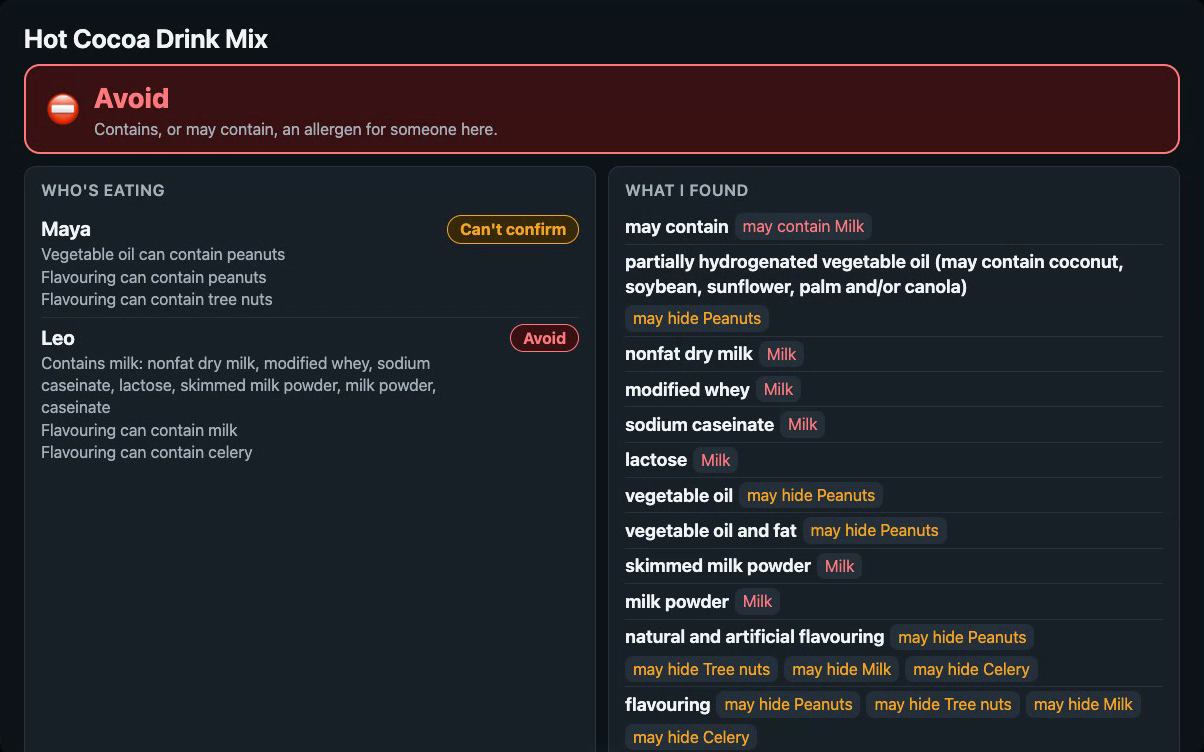
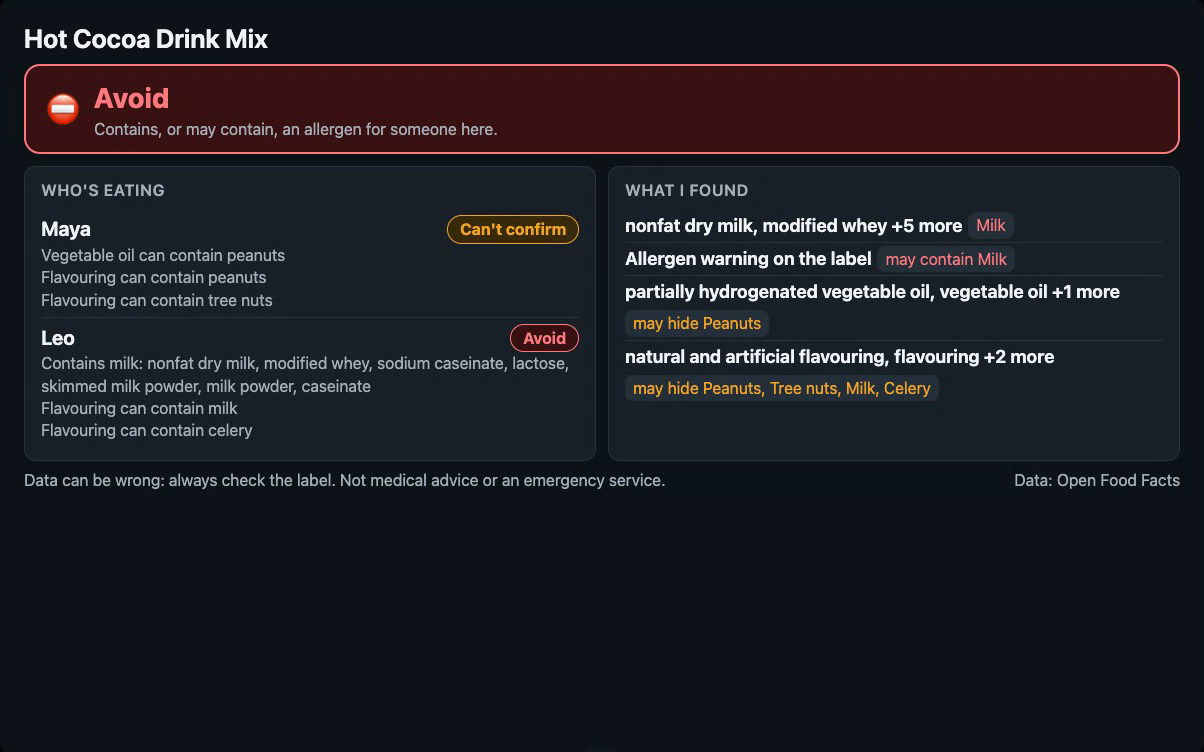
docs: mock-judge fixes, paste-sheet submission, README evidence

diff --git a/docs/SUBMISSION.md b/docs/SUBMISSION.md
@@ -1,87 +1,137 @@
-# Devpost submission draft: Alexa+ track
+# Devpost submission: paste sheet (Alexa+ track)
 
-Edit freely before submitting. Facts below match the repo as built.
+Field by field, in the order of the Devpost form. Facts match the repo as built. `<…>` marks what is still open. Nothing here is submitted, uploaded or published until AUTHOR does it.
 
-## Name
-Allergy Guard: a fail-closed allergy checker for Alexa+
+## Project name
+Allergy Guard
 
-## Tagline
-Tell Alexa who's allergic to what. It checks recipes and products for everyone at the table, and never says "safe".
+## Elevator pitch (200 characters max)
+An Alexa+ add-on that checks recipes and scanned food for everyone at the table, and never says "safe". When the data can't back an answer, it says "I can't confirm".
 
-## What it does
-A household tells Alexa who is allergic to what, guests included, with an end date for visitors. Allergy Guard then checks:
+## Thumbnail
+`docs/video/gallery/thumbnail.png` (3:2).
 
-- **Recipes**: a dish name, or ingredients read out. It shows a verdict per person on the Echo Show screen, highlights the risky ingredients, and suggests swaps. Each swap is checked against everyone's allergies, so a fix for one person never trips another.
-- **Packaged foods**, from Open Food Facts. Scan the barcode on the phone scan page and ask "Can Maya have what I just scanned?", or say the name or the barcode. If a name matches several products, it asks which one instead of guessing. With no recent scan, it asks for one.
+## About the project (paste as the story)
 
-The swaps go onto a shopping list.
+### Inspiration
+Two real records from Open Food Facts, the open database behind many allergy apps. A chocolate hazelnut spread has an empty allergen list and no ingredient list, so a checker that trusts the list would call it allergen-free. A hot cocoa mix lists soy as its only allergen, while its ingredients include nonfat dry milk, whey and caseinate. A voice assistant that answers confidently from data like that is dangerous. One that knows when it doesn't know is useful.
 
-The core rule is fail-closed. When data is missing, ambiguous, not in English, or the lookup fails, the answer is "I can't confirm it's OK, treat it as unsafe". So is any recipe word the engine doesn't recognise ("I don't know what's in garam masala"). Even a clean result ends with "check the label".
+The stakes are high. About 33 million people in the US have at least one food allergy, including 1 in 13 children, and about 40% of children with food allergies have more than one. Every 10 seconds, a reaction sends someone in the US to an emergency room ([FARE](https://www.foodallergy.org/resources/facts-and-statistics)). At home, the real question is whether a dish is OK for everyone at the table tonight.
 
-## Why
-Food allergies are a high-stakes decision made several times a day, often with flour on your hands. About 33 million people in the US have at least one food allergy, including 1 in 13 children, and about 40% of children with food allergies have more than one. Every 10 seconds, a reaction sends someone in the US to an emergency room ([FARE](https://www.foodallergy.org/resources/facts-and-statistics)). At home, the real question is whether a dish is OK for everyone at the table. The open data behind most allergy apps is volunteer-entered. In Open Food Facts, one chocolate hazelnut spread has an empty allergen list and no ingredients, and a hot cocoa mix lists soy as its only allergen while its ingredients include nonfat dry milk, whey and caseinate. A voice assistant that answers confidently from data like that is dangerous. One that knows when it doesn't know is useful.
+Alexa+ already remembers a family's allergies. Amazon says it understands "your family's dietary preferences, allergies, and weekly traditions" ([Amazon](https://aboutamazon.com/news/devices/amazon-2025-devices-alexa-event-live-updates)). But remembering an allergy isn't the same as checking food for it.
 
-Alexa+ already remembers a family's allergies. Amazon says it understands "your family's dietary preferences, allergies, and weekly traditions" ([Amazon](https://aboutamazon.com/news/devices/amazon-2025-devices-alexa-event-live-updates)). But remembering an allergy isn't the same as checking food for it. Allergy Guard checks each person against the actual recipe or product record, and says so when the record can't support an answer.
+### What it does
+Allergy Guard checks recipes and scanned products against everyone at your table, guests included. It treats missing data as unsafe: it says "I can't confirm" instead of "allergen-free".
 
-## How it's built
-- Self-hosted MCP server in TypeScript using the MCP TypeScript SDK 1.32. It negotiates MCP spec **2025-11-25** over **Streamable HTTP** (stateless) and exposes 9 tools.
-- An **MCP Apps** view (`text/html;profile=mcp-app`, MCP Apps 2026-01-26) as the Echo Show screen, with tap-to-choose that calls back into the server via `tools/call`. It follows the Alexa+ MCP design guide:
-  - for a typical household, the verdict, the risky ingredients and the swaps fit one screen;
-  - text is 16px or larger, touch targets 48px, contrast at least 4.5:1 in both themes;
-  - it uses the host's theme, device class and safe-area insets;
-  - it has no links out of the view.
+Say Maya can't have peanuts or tree nuts, and Leo from next door, who can't have dairy or celery, is coming on Saturday. "Check tonight's lasagne" gives each of them a verdict on the Echo Show, names the risky ingredients, and suggests swaps checked against both of them, so a fix for Leo never trips Maya.
 
-  Every tool result carries `_meta.ui.resourceUri`, because Alexa+ reads it from the response, and each tool has `invoking`/`invoked` status lines.
-- An open-source engine, `allergen-guard`, with zero dependencies and an MIT licence. It covers the EU 14 and US Big 9 allergens, with wheat separate from gluten, plus an ingredient dictionary with exclusions (peanut butter isn't dairy; oyster mushrooms aren't shellfish). Product checks read allergen tags, traces, the English ingredient text and the ingredient taxonomy together.
-- A simulated Alexa+ experience: any OpenAI-compatible LLM drives the server through a real MCP client. The browser does voice in and out and acts as the MCP Apps host. A **verdict lock** makes the spoken answer after a check the tool's own sentence, so the model can't soften it. A **no-tool guard** stops the model answering allergy questions from memory: without a tool call it may ask, never assert. Tested end to end on a local Qwen3.5 9B model.
-- A phone scan page: the camera reads the barcode (the browser's BarcodeDetector, or a WebAssembly decoder for Safari, served by the server itself, never a CDN), and the server keeps the scan for 30 minutes as "what I just scanned".
-- 58 automated tests:
+- **Household and guests:** who is allergic to what, with an end date for visitors. Guests drop off the list after their visit.
+- **Recipes:** a dish name, looked up on TheMealDB, or ingredients read out. You get a verdict per person, the risky lines, and household-aware swaps that go onto a shopping list.
+- **Packaged food:** scan the barcode on your phone and ask "Can Maya have what I just scanned?", or say the name or the barcode. If several products match, it asks which one. It reads the Open Food Facts allergen tags, traces and ingredient text together, which is how it finds the cocoa mix's milk.
+- **Fail-closed:** there are three answers: "Avoid", "Can't confirm" and "None listed, check the label". Never "safe". Missing, ambiguous or non-English data gives "Can't confirm". So does a recipe word it doesn't recognise ("I don't know what's in garam masala") and a failed lookup.
+
+### How I built it
+- **Self-hosted MCP server** in TypeScript with the MCP TypeScript SDK 1.32. It uses MCP spec **2025-11-25** over **Streamable HTTP**, is stateless, and has 9 tools. Every result leads with a `VERDICT:` line and the exact sentence to say, plus `structuredContent` for the screen.
+- **MCP Apps screen** for the Echo Show (`text/html;profile=mcp-app`), built to the Alexa+ MCP design guide:
+  - each verdict fits one screen at Echo Show 8 size;
+  - text is 16px or larger, touch targets 48px, contrast at least 4.5:1;
+  - it uses the host's theme and safe-area insets.
+
+  Tapping a choice calls back into the server with `tools/call`. `_meta.ui.resourceUri` is on every tool definition and every result.
+- **Open-source engine, `allergen-guard`**, MIT, with zero dependencies. It covers the EU 14 and US Big 9 allergens, with wheat separate from gluten, and has an ingredient dictionary with exclusions (peanut butter isn't dairy; oyster mushrooms aren't shellfish). Swaps declare their own allergens and are never a plant relative of what they replace.
+- **Phone scan page:** the camera reads the barcode with the browser's BarcodeDetector, or a WebAssembly decoder for Safari that the server serves itself. The server keeps the scan for 30 minutes as "what I just scanned".
+- **Simulated Alexa+**, because the Alexa+ MCP Toolkit is US-only and I'm outside the US. An LLM drives the server through a real MCP client, and the browser handles voice and hosts the MCP Apps screen. The simulator has two guards:
+  - a **verdict lock**: after a check, the spoken answer is the tool's own sentence;
+  - a **no-tool guard**: without a tool call, the model may ask but never assert.
+
+  On a real Alexa+, add-ons can't script speech, so the server's `VERDICT:` line and exact sentence carry the same rule.
+- **60 automated tests**, including:
   - 54 ingredient–allergen pairs that must never pass (peanut butter, pesto, ghee, amaretto…);
   - look-alikes that must not be flagged;
-  - end-to-end MCP over HTTP;
-  - a test where a fake model tries to say "totally safe" and is overridden;
-  - a test where a fake model answers from memory without a tool and is replaced.
+  - MCP end to end over HTTP;
+  - a fake model that tries to say "totally safe" and is overridden.
 - Built with Claude Code as the coding agent.
 
-## What was and wasn't tested
+### What was and wasn't tested
 - **Tested:**
-  - 58 automated tests;
-  - the scan page in headless Chrome with a camera feed of a barcode, then "what I just scanned" through the real model;
-  - the full demo conversation, end to end in the simulator on a local Qwen3.5 9B model with live data;
-  - the screen in headless Chrome, in both themes.
-- **Not tested:** a real Alexa+ (the Toolkit is US-only) and Amazon's Local Inspector (it installs through the Developer Console).
-- The verdict lock and no-tool guard are simulator-side. On real Alexa+ the defence is the server's `VERDICT:` line and exact speech sentence, plus the tool descriptions, because add-ons can't script what Alexa says. I've asked Amazon for a verbatim hook in the friction log.
+  - the 60 automated tests;
+  - the full demo conversation, end to end in the simulator, on a local Qwen3.5 9B model with live data;
+  - the scan page in headless Chrome, with a camera feed of a real barcode;
+  - every demo screen, measured at Echo Show 8 size in headless Chrome.
+- **Not tested:**
+  - a real Alexa+, because the Toolkit is US-only;
+  - Amazon's Local Inspector, which installs through a Developer Console login. <update if it gets run>
 
-## Video
-<YouTube or Vimeo URL>. The file is `docs/video/allergy-guard-demo.mp4` (2:51). Captions are in `allergy-guard-demo.srt`; upload them with the video.
+### Challenges I ran into
+- **Open data that contradicts itself.** The answer was never to trust allergen tags alone, and to scan the ingredient text too.
+- **Plant-based names that contain dairy words** ("coconut yoghurt"). Swaps declare their own allergens instead of being re-parsed.
+- **Voice answers have to be short without losing the reason.** Every verdict says who, what, and where it came from.
+- **A real model behaves differently from a scripted one.** It said "Got it, I'll add Leo" without saving him, and answered a pesto question from memory; that led to the no-tool guard. It also made up shopping-list swaps until the turn history kept the tool results.
 
-Put this line near the top of the YouTube description (the Higgs licence requires a visible credit):
-> This audio was created with Boson AI's Higgs Audio — https://www.boson.ai/higgs-audio
+### Accomplishments that I'm proud of
+- It never says "safe", and tests enforce that, including one where a fake model tries.
+- One spoken question checks everyone at the table, including a guest who drops off after the visit.
+- It finds the milk in a real cocoa mix whose allergen tags miss it.
+- It follows MCP spec 2025-11-25 exactly over Streamable HTTP, with an MCP Apps screen that fits an Echo Show.
+- The whole demo runs on a local 9B model, with no cloud API.
 
-## Try it (judges)
-`npm install && npm start`, then open http://127.0.0.1:8787/. The demo buttons call the MCP tools directly and need no model or API key. To talk to it, set `LLM_BASE_URL` and `LLM_MODEL` to any OpenAI-compatible endpoint with tool calling (see the README). Any MCP client can connect to `http://127.0.0.1:8787/mcp`.
+### What I learned
+- An allergen list is a claim, not a fact. The ingredient text has to be read too.
+- A model with tools still skips them. The guard has to be in code, not only in the prompt.
+- Swaps need the same care as dishes. An early swap table offered fennel for celery, which is a plant relative and a known cross-reaction. Swaps are now tested against that.
+- On a voice device the screen has to read at a glance. Grouping a product's 13 flagged ingredients into 4 rows mattered more than any colour.
 
-## Built during the hackathon
-All of it: the repository's first commit is 4 October 2026, after the submission period opened on 31 August 2026.
+### What's next for Allergy Guard
+- Deploying through the Alexa+ MCP Toolkit once it's available to my account.
+- Scanning with the Echo Show's own camera, if add-ons get camera input.
+- Ingredient text in more languages: Open Food Facts carries it, and the engine needs dictionaries.
+- An allergist review of the dictionary and the swaps.
 
-## Challenges
-- Open data that contradicts itself. The answer was never to trust allergen tags alone and to scan ingredient text too.
-- Plant-based names that contain dairy words ("coconut yoghurt"). Swaps declare their own allergens explicitly instead of being re-parsed.
-- Voice has to be short, but it can't lose the reason. Every verdict says who, what, and where it came from.
-- A real model, unlike a scripted one, said "Got it, I'll add Leo" without saving him, and answered a pesto question from memory. That led to the no-tool guard. It also made up shopping-list swaps until the turn history kept the tool results.
+## Built with (tags)
+alexa+, model-context-protocol, mcp-apps, typescript, node.js, open-food-facts, themealdb, web-speech-api, barcode-detector, mlx, qwen, claude-code
 
-## What's next
-- Scanning from the Echo Show's own camera, if add-ons get camera input.
-- Ingredient text in more languages: Open Food Facts carries them, and the engine needs dictionaries.
-- Deploying through the Alexa+ MCP Toolkit once available on a supported account.
-- Allergist-reviewed dictionary entries.
+## Try it out (links)
+- Code repository: <GitHub URL, once AUTHOR decides private or public>
 
-## Product feedback (required)
-Per tool: what it was used for, what worked, what needs work, onboarding, and whether I'd build with it again. Each issue has a full entry, with severity, in the friction log (`docs/FRICTION_LOG.md`, five entries).
+## Video demo link
+<YouTube URL, after the upload>. The file is `docs/video/allergy-guard-demo.mp4` (2:54), with captions in `docs/video/allergy-guard-demo.srt`.
+
+## Image gallery (upload in this order)
+Files are in `docs/video/gallery/`, padded to 3:2.
+1. `1-cannot-confirm.png`: "Missing product data: 'Can't confirm', never 'allergen-free'."
+2. `2-lasagne-check.png`: "One question gives a verdict for everyone at the table, with swaps checked against all of them."
+3. `3-product-check.png`: "The allergen tags say soy; the ingredient text adds the milk."
+4. `4-phone-scan.png`: "Scan on your phone, then ask about 'what I just scanned'."
+
+## Additional info (the hackathon's questions)
+
+### Track
+Alexa+
+
+### Mini challenges
+Open Source
+
+### Code repository URL
+<GitHub URL>
+
+### Testing instructions
+Node 22.6 or newer. Run `npm install && npm start`, then open http://127.0.0.1:8787/.
+
+The demo-script buttons call the MCP tools directly and need no model or API key. They reproduce the video's checks:
+- the spread with no ingredient list gives "Can't confirm";
+- the cocoa mix whose tags miss the milk gives "Avoid" for Leo.
+
+To talk to it, set `LLM_BASE_URL` and `LLM_MODEL` to any OpenAI-compatible endpoint with tool calling (see the README). Any MCP client can connect to `http://127.0.0.1:8787/mcp`. `npm test` runs the 60 tests.
+
+### New or existing project
+New: the repository's first commit is 4 October 2026, after the submission period opened on 31 August 2026.
+
+### Product feedback (required)
+For each tool: what it was used for, what worked, what needs work, onboarding, and whether I'd build with it again. Each issue also has a full entry, with severity, in the friction log (`docs/FRICTION_LOG.md`, five entries).
 
 **Alexa+ MCP Toolkit** (docs, MCP design guide, Local Inspector)
 - **Used for:** the screen and voice rules (design guide), where Alexa+ reads `_meta.ui`, and the certification path (Local Inspector).
-- **Worked well:** the design guide is concrete. Its sizes, contrast and density rules reshaped the screen. Add-ons are plain MCP, so the whole server could be built and tested with standard MCP tools before any Alexa-specific step.
+- **Worked well:** the design guide is concrete; its sizes, contrast and density rules reshaped the screen. Add-ons are plain MCP, so the whole server could be built and tested with standard MCP tools before any Alexa-specific step.
 - **Needs work:**
   - The Toolkit is US-only, so from outside the US I built a simulator instead of testing on a real Alexa+ (friction log 1).
   - There's no way to ask Alexa+ to speak a safety verdict verbatim: "You can't script what Alexa says" (2).
@@ -103,30 +153,62 @@ Per tool: what it was used for, what worked, what needs work, onboarding, and wh
 
 **Open Food Facts API and TheMealDB API**
 - **Used for:** product data by barcode or name, and recipes by dish name.
-- **Worked well:** both are free to develop against: Open Food Facts needs no key, and TheMealDB has a free development key.
+- **Worked well:** both are free to develop against. Open Food Facts needs no key, and TheMealDB has a free development key.
 - **Needs work:** Open Food Facts data is volunteer-entered and sometimes contradicts itself. That's why Allergy Guard reads the allergen tags and the ingredient text together, and fails closed.
 
-## Feature requests (optional)
+### Feature requests (optional)
 - **Critical:** let developer accounts in any country use the web simulator for development-stage add-ons. It's the only end-to-end test path, and it was closed to me.
 - **Critical:** a verbatim hint on tool results, such as `speech: { text, verbatim: true }`, for health and safety add-ons. A verdict must never be paraphrased into "should be fine".
 - **Important:** scripted multi-turn conversation tests in the Local Inspector or the `alexa-ai` CLI. The bugs that mattered most only showed up across turns.
-- **Important:** publish the Local Inspector and the `alexa-ai` CLI on public npm under the `@alexa-ai` scope, for CI and so nobody installs an unscoped look-alike.
+- **Important:** publish the Local Inspector and the `alexa-ai` CLI on public npm under the `@alexa-ai` scope, so it can run in CI and nobody installs an unscoped look-alike.
 - **Important:** say which `_meta.ui` fields Alexa+ reads from `tools/list` and which from tool results. A server built only to the MCP Apps spec can pass every local test and still show no screen.
 
-## Open Source mini-challenge
-- **Project:** `allergen-guard`, published as its own repository. <add the URL once it exists>
-- **What:** a zero-dependency TypeScript library for fail-closed allergen checks on recipes and packaged foods. It covers the EU 14 and US Big 9 allergens.
+### Friction log (optional, up to a 10% bonus)
+Paste `docs/FRICTION_LOG.md`: five entries, in the format the rules ask for.
+
+### Open Source mini-challenge
+- **Contribution URL:** <the public `allergen-guard` repository>
+- **Project repository URL:** <the Allergy Guard repository>
+- **GitHub username:** <AUTHOR's>
+- **What:** a zero-dependency TypeScript library for fail-closed allergen checks on recipes and packaged foods, covering the EU 14 and US Big 9 allergens.
 - **How:**
   - an ingredient dictionary with exclusions (peanut butter isn't dairy; oyster mushrooms aren't shellfish);
   - three verdicts, none of which is "safe";
   - product checks that read Open Food Facts allergen tags, traces and ingredient text together;
-  - swaps filtered against everyone's allergies.
-- **Why:** allergy features keep being rebuilt in apps and assistants, and the easy version (trust the allergen tags, answer "safe") is dangerous. This gives anyone a tested, fail-closed core. It has 21 tests of its own, including 54 ingredient–allergen pairs that must never pass.
+  - swaps filtered against everyone's allergies, and never a plant relative of what they replace.
+- **Why it matters:** allergy features keep being rebuilt in apps and assistants, and the easy version (trust the allergen tags, answer "safe") is dangerous. This gives anyone a tested, fail-closed core. It has 23 tests of its own, including 54 ingredient–allergen pairs that must never pass.
 
-## Built with
-Alexa+ (simulated), Model Context Protocol (MCP), MCP TypeScript SDK, MCP Apps, TypeScript, Node.js, Open Food Facts API, TheMealDB API, Web Speech API, barcode-detector (WebAssembly fallback), Qwen3.5 9B via MLX (local model for the simulator), Claude Code
+## YouTube upload (not part of the Devpost form)
+- **File:** `docs/video/allergy-guard-demo.mp4` (2:54), with captions in `docs/video/allergy-guard-demo.srt` (English).
+- **Title:** Allergy Guard: an Alexa+ add-on that never says "safe" (hackathon demo)
+- **Visibility:** Public. The rules say "publicly visible", and Unlisted may not count. This is AUTHOR's call.
+- **Altered or synthetic content:** yes. The voices are AI-generated and realistic.
+- **Made for kids:** no. **Category:** Science & Technology.
+- **Description** (the first line is the credit the Higgs licence requires):
 
-## Repository access (a note for submitting, not part of the text)
+```
+This audio was created with Boson AI's Higgs Audio — https://www.boson.ai/higgs-audio
+
+Allergy Guard is an Alexa+ add-on, shown in a simulator, that checks recipes and scanned food for everyone at the table, and never says "safe". When the data can't back an answer, it says "I can't confirm".
+
+Built for Amazon's Build, Ship, Shape hackathon (Alexa+ track): a self-hosted MCP server (spec 2025-11-25, Streamable HTTP), an MCP Apps screen for the Echo Show, and an open-source allergen engine. The voices are synthetic. Product data: Open Food Facts (ODbL). Recipes: TheMealDB.
+
+Code: <repository URL>
+
+0:00 The problem: a record with an empty allergen list
+0:12 One rule: it never says "safe"
+0:27 Saving the household and a guest
+0:46 Checking tonight's lasagne for everyone
+1:23 Scan on a phone: missing data means "can't confirm"
+1:54 A cocoa mix whose tags miss the milk
+2:23 Keeping the model honest
+2:37 How it's built
+```
+
+## Repository access (not part of the Devpost form)
 Pick one:
-- **Public:** add an open-source LICENSE file at the repository root. GitHub then shows the licence in the About section, which the rules ask for. No other step.
+- **Public:** the root `LICENSE` (MIT) is in place, so GitHub shows the licence in the About section, which the rules ask for. No other step.
 - **Private:** on submission day, add these collaborators: `chris-trag`, `knmeiss`, `giolaq`, `anishamalde`, `mosesroth`, `emersonsklar`, and `testing@devpost.com`. GitHub invitations expire after 7 days, so don't add them earlier.
+
+**GitHub About text:** A fail-closed allergy checker for Alexa+: an MCP server and Echo Show screen that check recipes and scanned food for everyone at the table, and never say "safe".
+**Topics:** alexa, alexa-plus, mcp, mcp-server, mcp-apps, food-allergy, allergens, open-food-facts, echo-show, typescript

diff --git a/README.md b/README.md
@@ -10,11 +10,11 @@ It is built around one rule: **when the data is missing, ambiguous or the lookup
 - **Alexa+ simulator**: an LLM drives the server through a real MCP client, with browser voice in and out, and renders the MCP Apps view the way an Echo Show would.
 - **Open-source engine** in [`packages/allergen-guard`](packages/allergen-guard): zero dependencies, MIT.
 
-| A recipe check: verdict per person, the risky lines, swaps checked against everyone | Missing product data: "can't confirm", never "allergen-free" |
+| Missing product data: "can't confirm", never "allergen-free" | A recipe check: verdict per person, the risky lines, swaps checked against everyone |
 |---|---|
-| ![Lasagne check](docs/screenshots/lasagne-check.png) | ![Can't confirm](docs/screenshots/cannot-confirm.png) |
-| **A guest saved until Saturday: they drop off after the visit** | **Allergen tags say soy; the ingredient text adds milk** |
-| ![Household](docs/screenshots/household.png) | ![Product check](docs/screenshots/product-check.png) |
+| ![Can't confirm](docs/screenshots/cannot-confirm.png) | ![Lasagne check](docs/screenshots/lasagne-check.png) |
+| **Allergen tags say soy; the ingredient text adds milk** | **A guest saved until Saturday: they drop off after the visit** |
+| ![Product check](docs/screenshots/product-check.png) | ![Household](docs/screenshots/household.png) |
 
 Screens from the recorded demo run: a local model driving the server, with live data.
 
@@ -48,7 +48,7 @@ npm install
 npm start                     # MCP: http://127.0.0.1:8787/mcp   Simulator: http://127.0.0.1:8787/
 ```
 
-Open the simulator and use the **demo script** buttons. They need no LLM. Each button is one MCP tool call.
+Open the simulator and use the **demo script** buttons. They need no LLM. Each button is one MCP tool call, and they reproduce the video's checks: the spread with no ingredient list ("Can't confirm") and the cocoa mix whose tags miss the milk ("Avoid" for Leo).
 
 To talk to it, point it at any OpenAI-compatible endpoint with tool calling:
 
@@ -86,12 +86,35 @@ The simulator in this repo stands in for steps 3 and 4.
 The same HTTPS host serves the phone scan page at `https://<host>/scan`; browsers only open the camera on https pages (or localhost).
 
 The screen follows the Alexa+ MCP design guide:
-- for a typical household, the whole verdict fits one Echo Show screen;
+- every demo screen fits one Echo Show 8 screen (measured at 944×590 in headless Chrome): long product lists are grouped by allergen, with "+N more";
 - 16px minimum text, 48px touch targets, and 4.5:1 contrast in both themes;
 - it applies the host's theme, device class and safe-area insets;
 - no links out of the view.
 
 Each tool declares `_meta.ui.resourceUri` with `invoking`/`invoked` status lines, and every result repeats `resourceUri`. Not-found results set `isError`.
+
+### What Alexa+ receives
+
+Captured from a live server with the MCP SDK client (`check_product` on the cocoa mix, Maya and Leo saved). The negotiated protocol version is `2025-11-25`; there are 9 tools.
+
+The tool definition's `_meta`:
+
+```json
+{ "ui": { "resourceUri": "ui://allergy-guard/verdict.html", "invoking": "Checking the product…", "invoked": "Product checked" },
+  "ui/resourceUri": "ui://allergy-guard/verdict.html" }
+```
+
+The tool result, trimmed (`structuredContent` also carries each person's reasons and the grouped ingredient rows for the screen):
+
+```json
+{
+  "content": [{ "type": "text", "text": "VERDICT: UNSAFE\nSay to the user: Leo should avoid this: it contains milk, in the whey, caseinate and lactose. I can't confirm this is OK for Maya: vegetable oil and flavouring can contain peanuts and tree nuts. Treat it as unsafe and check the label." }],
+  "structuredContent": { "kind": "product_check", "title": "Hot Cocoa Drink Mix", "overall": "unsafe",
+    "people": [{ "name": "Maya", "verdict": "cannot_confirm" }, { "name": "Leo", "verdict": "unsafe" }], "…": "…" },
+  "_meta": { "ui": { "resourceUri": "ui://allergy-guard/verdict.html" }, "ui/resourceUri": "ui://allergy-guard/verdict.html" },
+  "isError": false
+}
+```
 
 ## Tools
 
@@ -109,11 +132,11 @@ Every tool result has a short `speech` line for voice, a `VERDICT:` line for the
 ## Tests
 
 ```bash
-npm test          # 58 tests: engine, store, MCP over Streamable HTTP, phone scan, simulator verdict lock, no-tool guard, history trimming
+npm test          # 60 tests: engine, store, MCP over Streamable HTTP, phone scan, simulator verdict lock, no-tool guard, history trimming
 npm run typecheck
 ```
 
-The engine suite has 54 ingredient–allergen pairs that must never come back as "nothing listed", among them peanut butter, pesto, ghee, soy sauce, Worcestershire sauce, lupin flour and amaretto. It also has look-alikes that must not be flagged: butter beans, coconut milk, nutmeg, oyster mushrooms, eggplant. The MCP suite runs over real HTTP with the SDK client and confirms the negotiated protocol version is `2025-11-25`.
+The engine suite has 54 ingredient–allergen pairs that must never come back as "nothing listed", among them peanut butter, pesto, ghee, soy sauce, Worcestershire sauce, lupin flour and amaretto. It also has look-alikes that must not be flagged: butter beans, coconut milk, nutmeg, oyster mushrooms, eggplant. Swaps are tested too: never a plant relative of what they replace (no fennel for celery, no horseradish for mustard), and never anything that trips someone else in the household. The MCP suite runs over real HTTP with the SDK client and confirms the negotiated protocol version is `2025-11-25`.
 
 ## Layout
 
@@ -131,10 +154,10 @@ test/                      integration tests
 
 | | |
 |---|---|
-| Engine, store, MCP over real HTTP, phone scan, simulator guards | 58 automated tests (`npm test`) |
+| Engine, store, MCP over real HTTP, phone scan, simulator guards | 60 automated tests (`npm test`) |
 | The scan page | Headless Chrome with a fake camera showing a barcode image: decoded, looked up and checked through the real model ("what I just scanned") |
 | The full demo conversation | End to end in the simulator on a local model (Qwen3.5 9B, 4-bit, MLX), against live Open Food Facts and TheMealDB data |
-| The Echo Show screen and the tap-to-choose flow | Headless Chrome, at the simulator's Echo Show size, in dark and light themes |
+| The Echo Show screen and the tap-to-choose flow | Headless Chrome, at the simulator's Echo Show size, in dark and light themes; every demo button's screen measured to fit at 944×590 |
 | Real Alexa+ | **Not tested.** The Alexa+ MCP Toolkit serves US accounts, and this was built outside the US |
 | Amazon's Local Inspector | **Not run.** It installs from the Developer Console; the steps are under "Alexa+" above |
 

diff --git a/docs/DEMO.md b/docs/DEMO.md
@@ -1,6 +1,6 @@
 # Demo video
 
-The submitted video is a real run, not a mock-up:
+The submitted video (2:54, recorded 7 October 2026) is a real run, not a mock-up:
 - The simulator was recorded in headless Chrome while a local model (Qwen3.5 9B, MLX) drove the MCP server, with live Open Food Facts and TheMealDB data.
 - The waits for the model were cut.
 - The voices are local text-to-speech with Boson AI's Higgs Audio (Higgs TTS 3), used under its Creator Use Grant: one voice per role (Alexa, the narrator and you). The narrator and "you" were cloned from reference voices designed with Qwen3-TTS VoiceDesign (Apache-2.0), so no real person's voice is imitated.
@@ -23,8 +23,8 @@ The submitted video is a real run, not a mock-up:
 | Voice turn | You: "Can Maya and Leo have what I just scanned?" Alexa: "I can't confirm this is OK for Maya and Leo: the ingredient list is missing from the product data…" Narrator: missing data never becomes "no allergens". |
 | Phone scan: a hot cocoa mix | (the scan page finds it) |
 | Voice turn | You: "And this one I just scanned?" Alexa: avoid for Leo (milk, in the whey, caseinate and lactose), can't confirm for Maya. Narrator: the record lists soy as its only allergen and milk only as a "may contain"; the ingredient text adds the milk. |
-| Slide: keeping the model honest | The verdict lock and the no-tool guard, found by testing on a real model. |
-| Slide: how it's built | MCP server (spec 2025-11-25, Streamable HTTP), MCP Apps screen built to the Alexa+ design guide, open-source engine, and its tests. |
+| Slide: keeping the model honest | The verdict lock and the no-tool guard, found by testing on a real model. Both run in the simulator; on a real Alexa+, every result leads with the exact sentence to say. |
+| Slide: how it's built | MCP server (spec 2025-11-25, Streamable HTTP), MCP Apps screen built to the Alexa+ design guide, and the open-source engine, "with tests that try to trick it into saying safe". |
 
 ## Recording it yourself
 

diff --git a/docs/FRICTION_LOG.md b/docs/FRICTION_LOG.md
@@ -47,7 +47,7 @@ Each entry is something that happened while building Allergy Guard. Format: task
 - **Expected:** a public npm package, so it can run in CI like the MCP Inspector (`npx @modelcontextprotocol/inspector`).
 - **Actual:** npm returns 404, and installation goes through a Developer Console login. Searching npm for "alexa-ai" instead returns an unscoped `alexa-ai` package from an unrelated third party (a WhatsApp bot), which someone could install by mistake.
 - **Severity:** medium. It adds a manual step and a supply-chain trap.
-- **Workaround:** tested with my own integration tests, which drive the server through the MCP TypeScript SDK client over real HTTP (58 tests in all).
+- **Workaround:** tested with my own integration tests, which drive the server through the MCP TypeScript SDK client over real HTTP (60 tests in all).
 - **Suggestion:** publish the inspector and the `alexa-ai` CLI publicly under the `@alexa-ai` scope. Put the exact `npm i -g @alexa-ai/...` command in the docs, so nobody guesses an unscoped name.
 
 ## 5. Where `_meta.ui` goes: tool definition or tool result?
